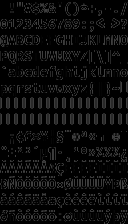
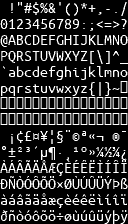
temporarily convert to RGB on palettization to remove more aliasing

diff --git a/examples/font_editor/src/python/agon_font.py b/examples/font_editor/src/python/agon_font.py
@@ -105,9 +105,9 @@ def resample_and_scale_image(font_config, original_image):
         palette_fileame = f"colors/{font_config['palette']}.gpl"
         palette_filepath = os.path.join(os.path.dirname(__file__), palette_fileame)
         temp_img_filepath = os.path.join(os.path.dirname(__file__), 'temp.png')
-        font_image.save(temp_img_filepath)
+        font_image.convert('RGB').save(temp_img_filepath)
         au.convert_to_palette(temp_img_filepath, temp_img_filepath, palette_filepath, 'RGB')
-        font_image = Image.open(temp_img_filepath)
+        font_image = Image.open(temp_img_filepath).convert('RGBA')
 
     return font_config, font_image
 
